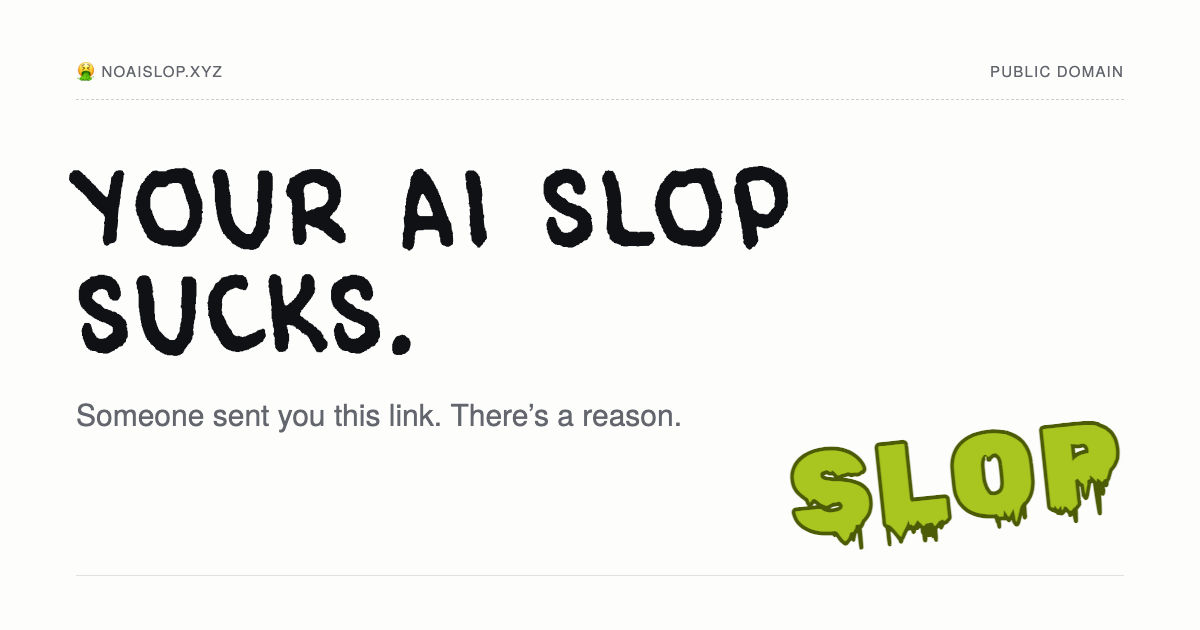
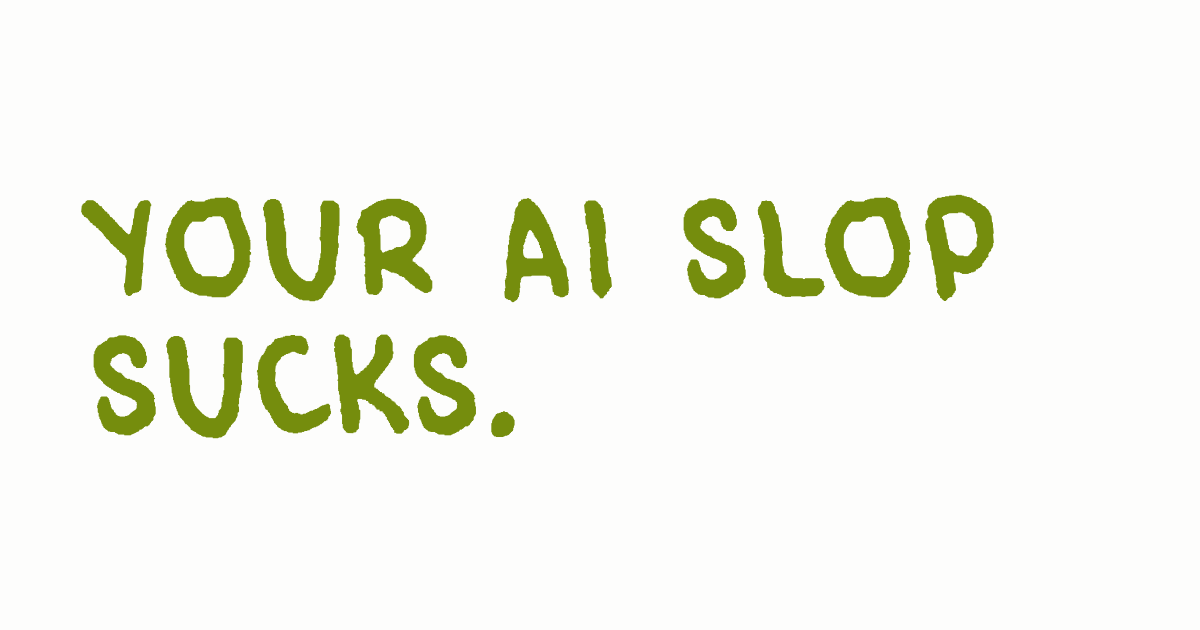
Final English copy, drop the French page, open the site to indexing
The copy is settled, so the French translation is out: it was written against
three earlier versions of the text and kept drifting behind. It comes back
once the English stops moving, as a translation of the final page rather than
a running patch. locales is derived from the files in src/content/i18n/, so
deleting fr.json is the whole removal.

"Don't do this" gains its point in one line, "It's not the tool. It's how you
use it.", and loses the caption under the prompts. "Do this instead" gains the
counter-example: the same flyer, briefed by someone who made decisions, and
stamped FINE in the marker face rather than in the face that drips. SlopList
becomes PromptList, with a tone for each verdict.

The stamp now follows the arrow instead of being flushed right, so the eye
goes prompt, arrow, verdict, in that order and at that distance.

The site can be indexed: the noindex meta is gone and robots.txt allows
everything. The OG image is now the title, in the accent green on the page
background, and nothing else. It uses #758d0d rather than the lime, which
sits at 2:1 on this background and disappears in a link preview.

diff --git a/tools/og-image.html b/tools/og-image.html
@@ -2,73 +2,25 @@
 <meta charset="utf-8" />
 <style>
   @font-face {
-    font-family: "Heros";
-    src: url("../public/fonts/heros-400-latin.woff2") format("woff2");
-    font-weight: 400;
-  }
-  @font-face {
-    font-family: "Heros";
-    src: url("../public/fonts/heros-700-latin.woff2") format("woff2");
-    font-weight: 700;
-  }
-  @font-face {
     font-family: "Comico";
     src: url("../public/fonts/comico-400-latin.woff2") format("woff2");
-  }
-  @font-face {
-    font-family: "Rubik Wet Paint";
-    src: url("../public/fonts/rubik-wet-paint-subset.woff2") format("woff2");
   }
   * { box-sizing: border-box; margin: 0; }
   html, body { width: 1200px; height: 630px; }
   body {
     background: #fdfdfc;
-    color: #101114;
-    font-family: "Heros", Helvetica, sans-serif;
-    padding: 58px 76px 54px;
     display: flex;
-    flex-direction: column;
-    justify-content: space-between;
-    position: relative;
-    overflow: hidden;
-  }
-  .doc-meta {
-    display: flex;
-    justify-content: space-between;
     align-items: center;
-    padding-bottom: 16px;
-    border-bottom: 1px dashed #cfcec9;
-    font-size: 15px;
-    letter-spacing: 0.08em;
-    text-transform: uppercase;
-    color: #63666d;
+    padding: 0 90px;
   }
   h1 {
     font-family: "Comico", sans-serif;
-    font-size: 104px;
-    line-height: 1.02;
     font-weight: 400;
-    margin-top: 54px;
-  }
-  .sub { font-size: 30px; color: #63666d; margin-top: 26px; }
-  .rule { height: 1px; background: #e2e1dc; }
-  .stamp {
-    position: absolute; right: 76px; bottom: 92px;
-    transform: rotate(-6deg);
-    font-family: "Rubik Wet Paint", cursive;
-    font-size: 118px; line-height: 1; letter-spacing: 0.02em;
-    color: #a8c520; -webkit-text-stroke: 4px #4c5b06;
+    font-size: 132px;
+    line-height: 1.04;
+    color: #758d0d;
   }
 </style>
 <body>
-  <div>
-    <div class="doc-meta">
-      <span>🤮 noaislop.xyz</span>
-      <span>Public domain</span>
-    </div>
-    <h1>your AI slop sucks.</h1>
-    <p class="sub">Someone sent you this link. There’s a reason.</p>
-  </div>
-  <div class="rule"></div>
-  <div class="stamp">SLOP</div>
+  <h1>your AI slop sucks.</h1>
 </body>

diff --git a/src/i18n/types.ts b/src/i18n/types.ts
@@ -36,6 +36,7 @@ export interface Copy {
   };
   dont: {
     sectionTitle: string;
+    intro: string;
     /** The word stamped at the end of every line. */
     stamp: string;
     /** One line prompts, the kind that goes straight to publish. */
@@ -47,6 +48,11 @@ export interface Copy {
   standards: {
     sectionTitle: string;
     body: string[];
+    /** The same line, written by someone who made decisions. */
+    example: {
+      prompt: string;
+      stamp: string;
+    };
     blocks: RunIn[];
   };
   test: {
@@ -64,6 +70,7 @@ export interface Copy {
   };
   footer: {
     lines: string[];
+    note: string;
   };
   languageSwitcher: {
     /** Accessible name of the select. */

diff --git a/README.md b/README.md
@@ -105,12 +105,6 @@ someone who came back to English on purpose. Clicking the language switcher
 writes the same key. Storage blocked or JavaScript off: everyone stays on
 English, which is the correct fallback.
 
-## Not indexed yet
-
-The page carries `<meta name="robots" content="noindex, nofollow">` and
-`public/robots.txt` disallows everything. Delete the meta tag in
-`src/layouts/BaseLayout.astro` and the robots file to open it to search engines.
-
 ## Deploy
 
 `npm run build` produces a fully static `dist/`. Drop it on anything: Netlify,

diff --git a/tools/README.md b/tools/README.md
@@ -11,5 +11,5 @@ HTML page, screenshotted at that exact size. To regenerate it after an edit:
   "file://$PWD/tools/og-image.html"
 ```
 
-Any headless browser does the job. The image is a placeholder, waiting for a
-proper one.
+Any headless browser does the job. The image is the title, in the marker face, in the
+accent green on the page background. Nothing else.
